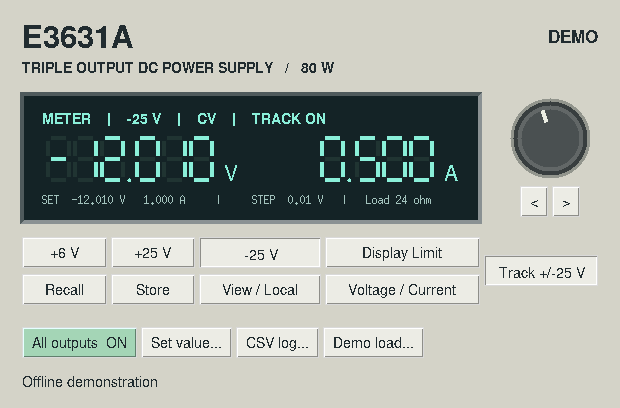
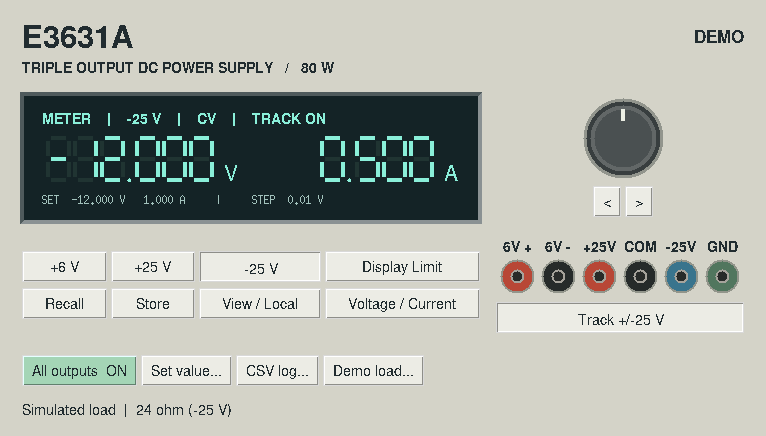
Align E3631A demo label and add output terminal graphics
Show the selected rail's simulated load in the footer and add six binding posts for the +6 V pair, +/-25 V common outputs and chassis ground. Place tracking beneath the terminals.

Verified rendered layout and demo load selection, output enable and tracking under X11.

diff --git a/e3631a.py b/e3631a.py
@@ -18,7 +18,7 @@ class TriplePanel(shared.Panel):
     model = "E3631A"
     description = "TRIPLE OUTPUT DC POWER SUPPLY   /   80 W"
     connect = staticmethod(session)
-    demo_notice = "Offline demonstration"
+    demo_notice = "Simulated load  |  10 ohm"
     memory_slots = 3
     output_label = "All outputs"
     csv_fields = ("rail","on","v","i","mv","mi","mode","track")
@@ -31,7 +31,18 @@ class TriplePanel(shared.Panel):
                        ("View / Local",self.local),("Voltage / Current",self.axis_key)]
 
     def terminal_group(self,body):
-        self.track_button = self.key(body,"Track +/-25 V",self.tracking,3,1)
+        group = shared.tk.Frame(body,bg=shared.CASE)
+        group.grid(row=3,column=1,padx=(12,0))
+        terminals = shared.tk.Canvas(group,width=252,height=65,bg=shared.CASE,highlightthickness=0)
+        terminals.grid(row=0,column=0)
+        posts = [(23,"#b84736","6V +"),(64,"#262b2a","6V -"),
+                 (105,"#b84736","+25V"),(146,"#262b2a","COM"),
+                 (187,"#39748d","-25V"),(228,"#51765e","GND")]
+        for x,color,label in posts:
+            terminals.create_text(x,12,text=label,fill=shared.INK,font=("Helvetica",10,"bold"))
+            for radius,fill in [(17,"#92958b"),(15,color),(7,"#a6a39b"),(5,"#282b29")]:
+                terminals.create_oval(x-radius,42-radius,x+radius,42+radius,fill=fill,outline="")
+        self.track_button = self.key(group,"Track +/-25 V",self.tracking,1,0)
 
     def tracking(self):
         self.send("track",int(not self.state["track"]))
@@ -51,7 +62,8 @@ class TriplePanel(shared.Panel):
                     key.config(relief="sunken" if key.cget("text") == LABEL[s["rail"]] else "raised")
             if not self.port:
                 self.load = s["load"]
-                self.sub.config(text=self.sub.cget("text") + "   |   Load {:g} ohm".format(self.load))
+                if self.notice.cget("text").startswith("Simulated load"):
+                    self.notice.config(text="Simulated load  |  {:g} ohm ({})".format(self.load,LABEL[s["rail"]]))
 
     def minimum(self):
         return bounds(self.state["rail"],self.axis)[0]
@@ -70,6 +82,7 @@ class TriplePanel(shared.Panel):
                                            initialvalue=self.load,minvalue=.001,maxvalue=1e9,parent=self.root)
         if val is not None and math.isfinite(val):
             shared.Panel.send(self,"load",(rail,val))
+            self.notice.config(text="Simulated load  |  {:g} ohm ({})".format(val,LABEL[rail]))
 
 
 def main():
